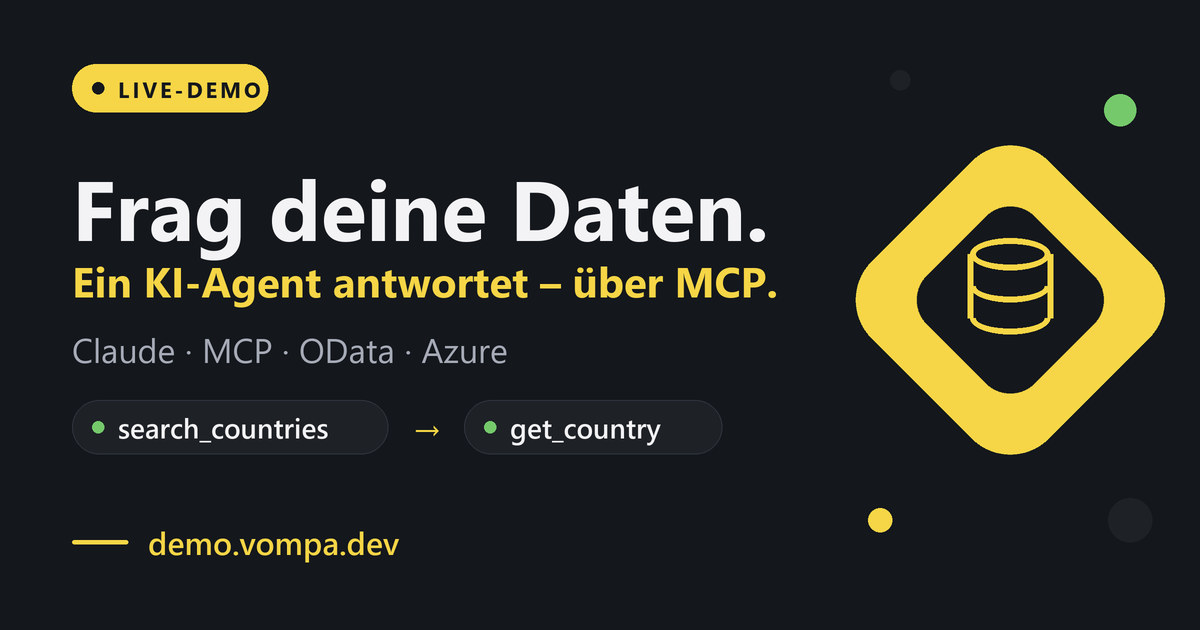
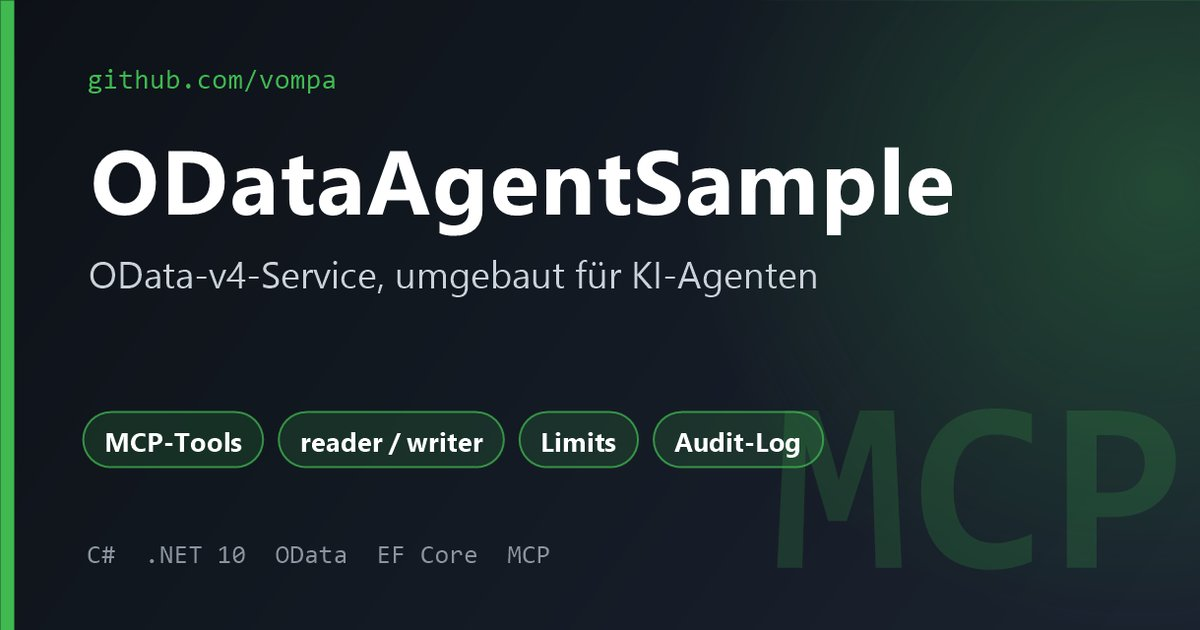
feat(demo): Vorschaubild im Stil des Repos (Social Preview), og:image mit Version

diff --git a/src/ODataAgentSample/Demo/Web/demo.html b/src/ODataAgentSample/Demo/Web/demo.html
@@ -14,11 +14,11 @@
   <meta property="og:url" content="https://demo.vompa.dev/demo">
   <meta property="og:site_name" content="ODataAgentSample – Live-Demo">
   <meta property="og:locale" content="de_AT">
-  <meta property="og:image" content="https://demo.vompa.dev/assets/og-image.jpg">
+  <meta property="og:image" content="https://demo.vompa.dev/assets/og-image.jpg?v=2">
   <meta property="og:image:type" content="image/jpeg">
   <meta property="og:image:width" content="1200">
   <meta property="og:image:height" content="630">
-  <meta property="og:image:alt" content="Live-Demo: Frag deine Daten. Ein KI-Agent antwortet über MCP. Claude, MCP, OData, Azure.">
+  <meta property="og:image:alt" content="ODataAgentSample: OData-v4-Service, umgebaut für KI-Agenten (MCP-Tools, reader/writer, Limits, Audit-Log)">
   <meta name="twitter:card" content="summary_large_image">
   <link rel="stylesheet" href="/assets/site.css">
   <script src="/assets/demo.js" defer></script>

diff --git a/src/ODataAgentSample/Demo/Web/index.html b/src/ODataAgentSample/Demo/Web/index.html
@@ -14,11 +14,11 @@
   <meta property="og:url" content="https://demo.vompa.dev/">
   <meta property="og:site_name" content="ODataAgentSample – Live-Demo">
   <meta property="og:locale" content="de_AT">
-  <meta property="og:image" content="https://demo.vompa.dev/assets/og-image.jpg">
+  <meta property="og:image" content="https://demo.vompa.dev/assets/og-image.jpg?v=2">
   <meta property="og:image:type" content="image/jpeg">
   <meta property="og:image:width" content="1200">
   <meta property="og:image:height" content="630">
-  <meta property="og:image:alt" content="Live-Demo: Frag deine Daten. Ein KI-Agent antwortet über MCP. Claude, MCP, OData, Azure.">
+  <meta property="og:image:alt" content="ODataAgentSample: OData-v4-Service, umgebaut für KI-Agenten (MCP-Tools, reader/writer, Limits, Audit-Log)">
   <meta name="twitter:card" content="summary_large_image">
   <link rel="stylesheet" href="/assets/site.css">
   <script src="/assets/landing.js" defer></script>

diff --git a/tests/ODataAgentSample.Tests/Demo/DemoEndpointTests.cs b/tests/ODataAgentSample.Tests/Demo/DemoEndpointTests.cs
@@ -108,7 +108,7 @@ public sealed partial class DemoPageTests : IDisposable
 
         Assert.Contains($"<meta property=\"og:url\" content=\"{url}\">", html, StringComparison.Ordinal);
         Assert.Contains($"<link rel=\"canonical\" href=\"{url}\">", html, StringComparison.Ordinal);
-        Assert.Contains("<meta property=\"og:image\" content=\"https://demo.vompa.dev/assets/og-image.jpg\">", html, StringComparison.Ordinal);
+        Assert.Contains("<meta property=\"og:image\" content=\"https://demo.vompa.dev/assets/og-image.jpg?v=2\">", html, StringComparison.Ordinal);
         Assert.Contains("<meta name=\"twitter:card\" content=\"summary_large_image\">", html, StringComparison.Ordinal);
     }
 
